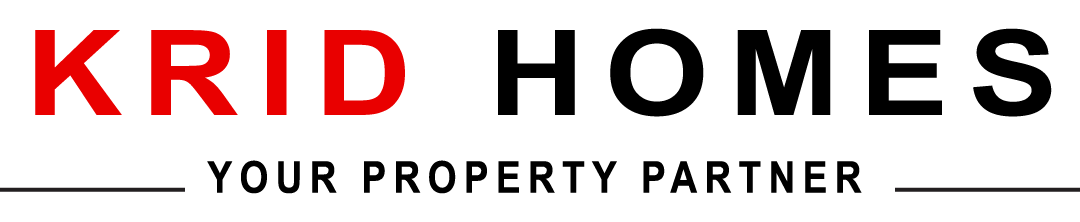
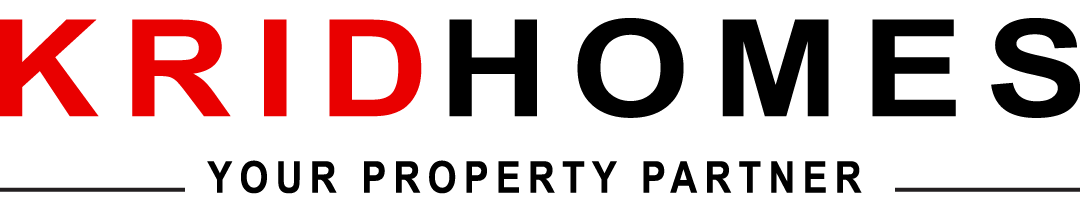
Update home branding and services styling

diff --git a/src/components/Hero.tsx b/src/components/Hero.tsx
@@ -2,6 +2,7 @@ import { ArrowRight } from 'lucide-react';
 import heroImage1 from '../lib/hero image 1.png';
 import heroImage2 from '../lib/hero image 2.png';
 import heroImage3 from '../lib/hero image 3.png';
+import brandWordmark from '../lib/nav bar kridhomes name picture.png';
 
 const heroImages = [
   {
@@ -38,10 +39,13 @@ export default function Hero() {
 
       <div className="relative w-full max-w-7xl mx-auto px-4 sm:px-6 lg:px-8 py-20 text-center overflow-hidden">
         <div className="space-y-8 w-full max-w-full bg-white/65 backdrop-blur-sm rounded-3xl px-4 py-10 sm:px-10 shadow-2xl border border-white/50 overflow-hidden">
-          <h1 className="text-4xl sm:text-5xl lg:text-6xl font-bold leading-tight tracking-[0.08em]">
-            <span className="text-red-600">KRID</span>{' '}
-            <span className="text-gray-900">HOMES</span>
-          </h1>
+          <div className="flex justify-center">
+            <img
+              src={brandWordmark}
+              alt="KRID HOMES"
+              className="h-10 sm:h-12 lg:h-14 w-auto max-w-full object-contain"
+            />
+          </div>
 
           <div className="relative w-full max-w-full overflow-hidden rounded-3xl bg-white/80 p-3 sm:p-4 shadow-inner">
             <div className="pointer-events-none absolute inset-y-0 left-0 w-12 sm:w-20 bg-gradient-to-r from-white via-white/80 to-transparent z-10"></div>

diff --git a/src/components/Services.tsx b/src/components/Services.tsx
@@ -5,6 +5,7 @@ import {
   Settings,
   Lightbulb,
   ArrowRight,
+  CheckCircle2,
 } from 'lucide-react';
 
 const services = [
@@ -123,9 +124,13 @@ export default function Services() {
                   {service.features.map((feature, idx) => (
                     <li
                       key={idx}
-                      className="text-gray-700 text-sm leading-relaxed"
+                      className="flex items-start gap-3 text-gray-700 text-sm leading-relaxed"
                     >
-                      {feature}
+                      <CheckCircle2
+                        size={18}
+                        className="mt-0.5 shrink-0 text-red-600"
+                      />
+                      <span>{feature}</span>
                     </li>
                   ))}
                 </ul>

diff --git a/src/components/Benefits.tsx b/src/components/Benefits.tsx
@@ -60,9 +60,6 @@ export default function Benefits() {
 
           <div className="space-y-8 order-1 lg:order-2 text-center lg:text-left">
             <div>
-              <div className="inline-block px-4 py-2 bg-red-50 text-red-600 rounded-full text-sm font-semibold tracking-wide mb-4">
-                WHY CHOOSE KRIDHOMES
-              </div>
               <h2 className="text-4xl sm:text-5xl font-bold text-gray-900 mb-6">
                 Why Choose <span className="text-red-600">KridHomes</span>
               </h2>
